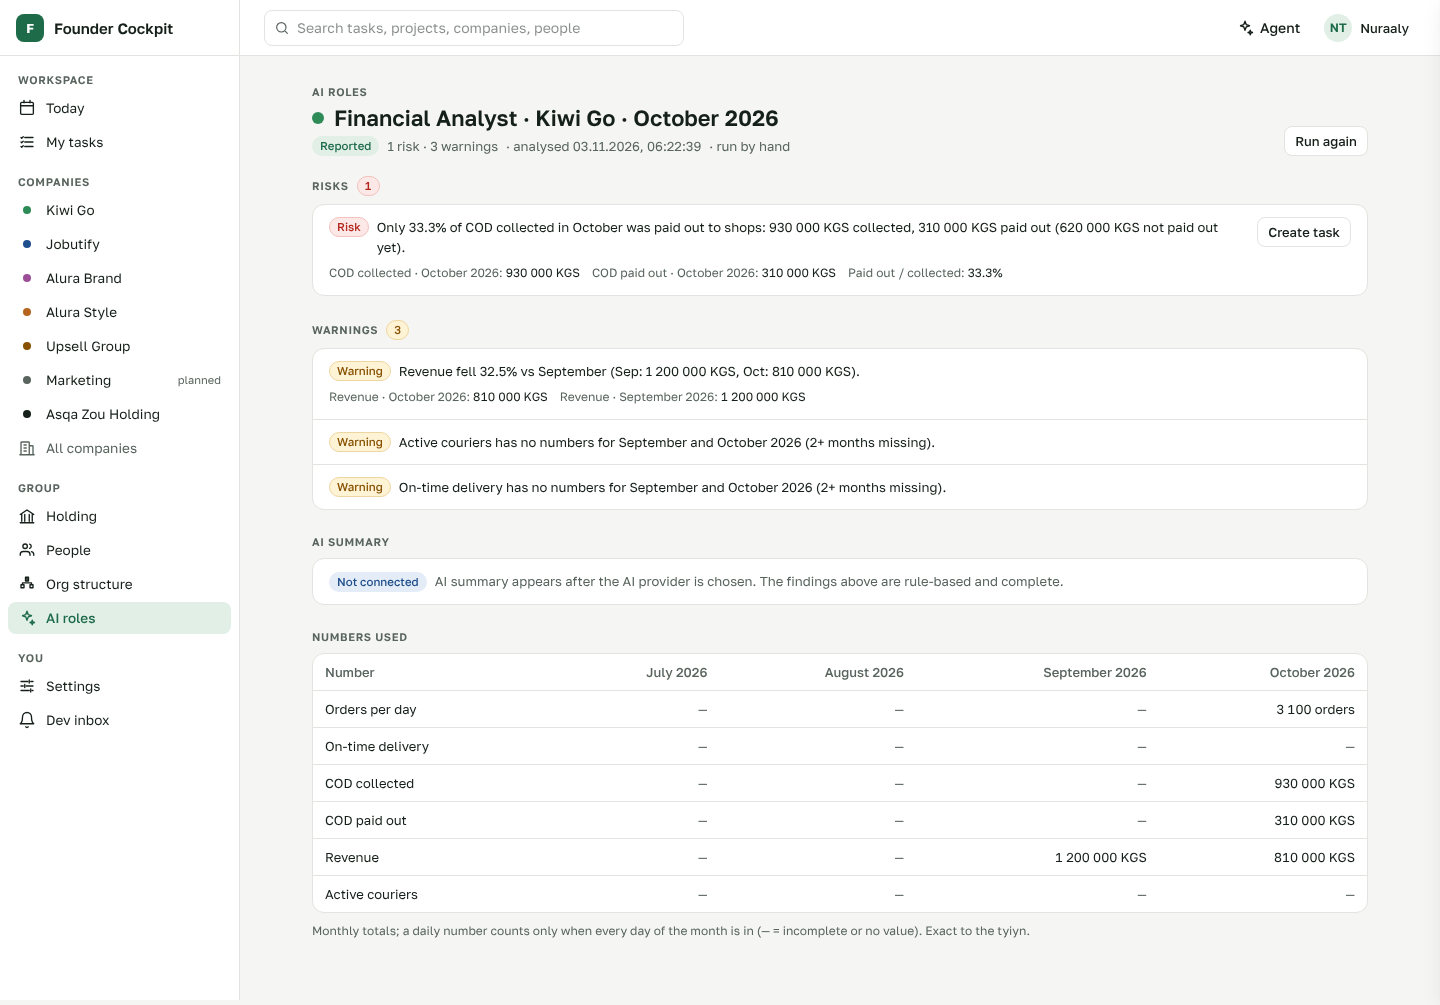
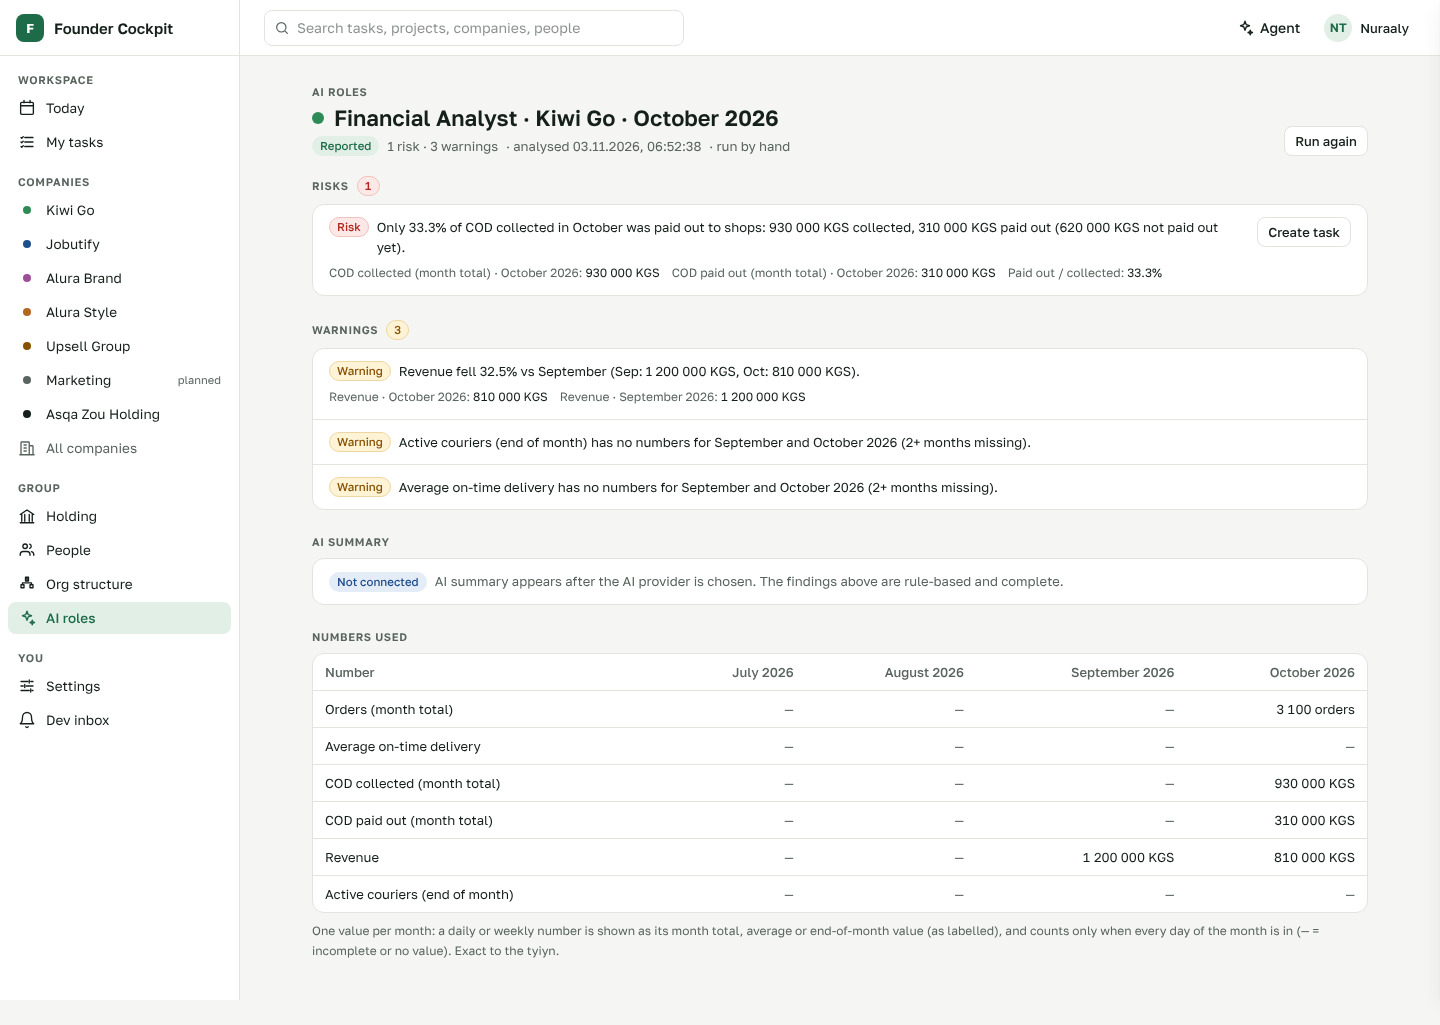
AI reports: 'missing' findings name the number as founders enter it ('On-time delivery'), month-value labels stay in the analysis
Claude-Session: https://claude.ai/code/session_01Lm7ff7THzG6EBcYphgva3C

diff --git a/src/server/ai/finance-rules.ts b/src/server/ai/finance-rules.ts
@@ -53,8 +53,10 @@ export interface MonthSeries {
   key: string;
   /** "Output per day" */
   name: string;
-  /** "Output per day · ХБК" */
+  /** The month value's label: "Output (month total) · ХБК" */
   label: string;
+  /** The number as founders enter it ("Output per day · ХБК"), for "missing" sentences. Default: label. */
+  entryLabel?: string;
   unitSlug: string | null;
   unit: string;
   direction: Direction;
@@ -314,10 +316,10 @@ function missingRules(input: FinanceInput): Finding[] {
       rule: "missing",
       severity: "warn",
       company: input.companyName,
-      metrics: [s.label],
+      metrics: [s.entryLabel ?? s.label],
       metricKeys: [s.key],
       numbers: [],
-      sentence: `${s.label} has no numbers for ${monthName(prevP)} and ${monthLabel(p)} (2+ months missing).`,
+      sentence: `${s.entryLabel ?? s.label} has no numbers for ${monthName(prevP)} and ${monthLabel(p)} (2+ months missing).`,
     });
   }
   if (never.length) {
@@ -326,10 +328,10 @@ function missingRules(input: FinanceInput): Finding[] {
       rule: "never_entered",
       severity: "info",
       company: input.companyName,
-      metrics: never.map((s) => s.label),
+      metrics: never.map((s) => s.entryLabel ?? s.label),
       metricKeys: never.map((s) => s.key),
       numbers: [],
-      sentence: `Never entered yet, so not analysed: ${never.map((s) => s.label).join(", ")}.`,
+      sentence: `Never entered yet, so not analysed: ${never.map((s) => s.entryLabel ?? s.label).join(", ")}.`,
     });
   }
   return out;

diff --git a/tests/unit/ai-finance.test.ts b/tests/unit/ai-finance.test.ts
@@ -227,7 +227,7 @@ describe("finance rules (fixed fixtures)", () => {
     const f = analyseFinance(
       input([
         series("revenue", [null, null, "1", "1"]),
-        { ...series("couriers_active", ["10", null, null, null], { label: "Active couriers", unit: "people" }) },
+        { ...series("couriers_active", ["10", null, null, null], { label: "Active couriers (end of month)", entryLabel: "Active couriers", unit: "people" }) },
         { ...series("on_time_pct", [null, null, null, null], { label: "On-time delivery" }), everHadData: false },
       ]),
     );

diff --git a/src/server/services/ai-roles.ts b/src/server/services/ai-roles.ts
@@ -414,6 +414,7 @@ function evaluateNumbers(numbers: CompanyNumbers, period: IsoDate, required: rea
       key: d.key,
       name: mName,
       label: mLabel,
+      entryLabel: d.label,
       unitSlug: d.unitSlug,
       unit: d.unit,
       direction: d.direction,
